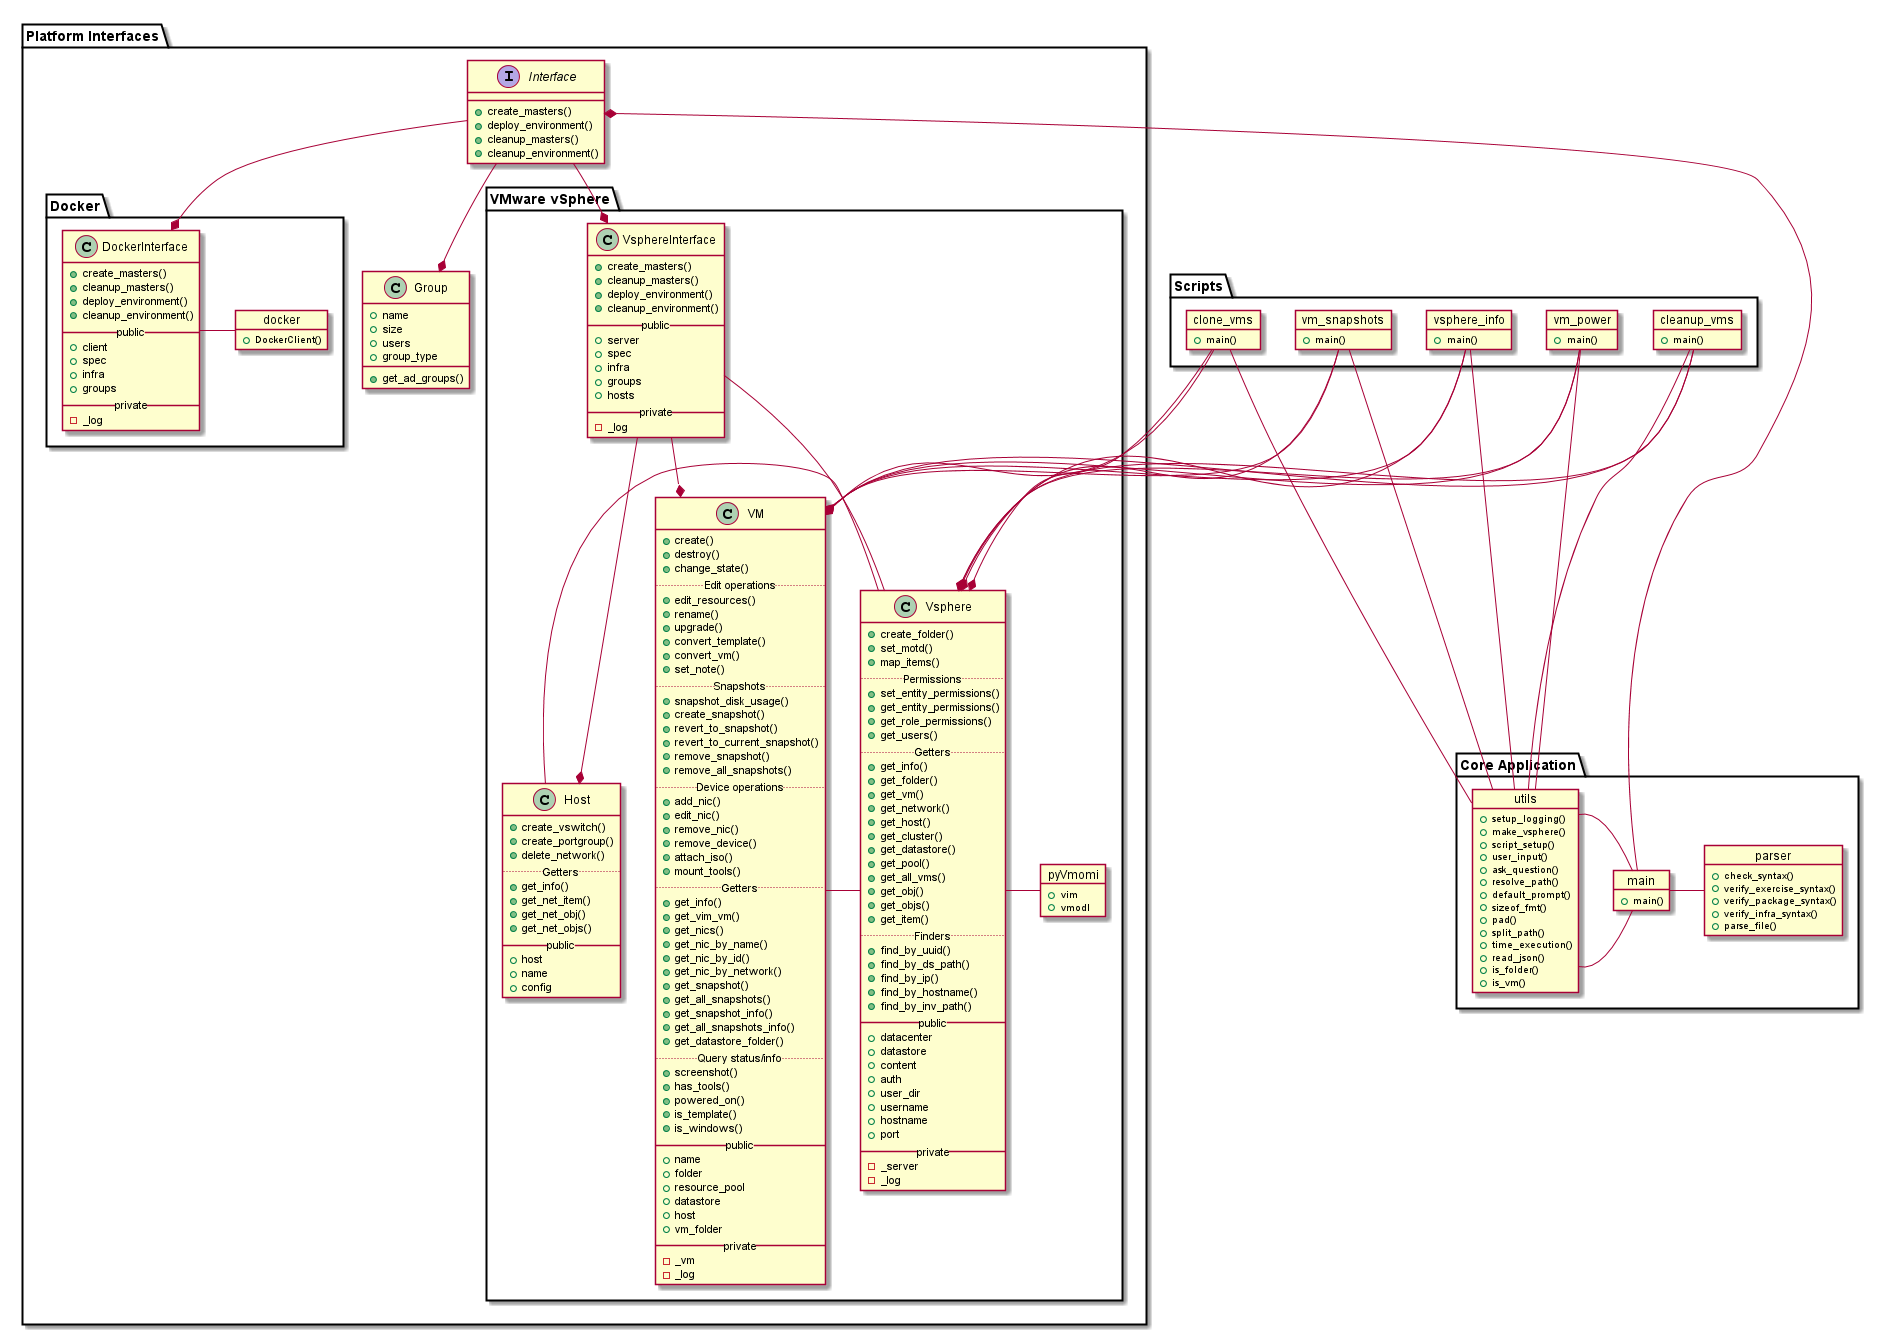
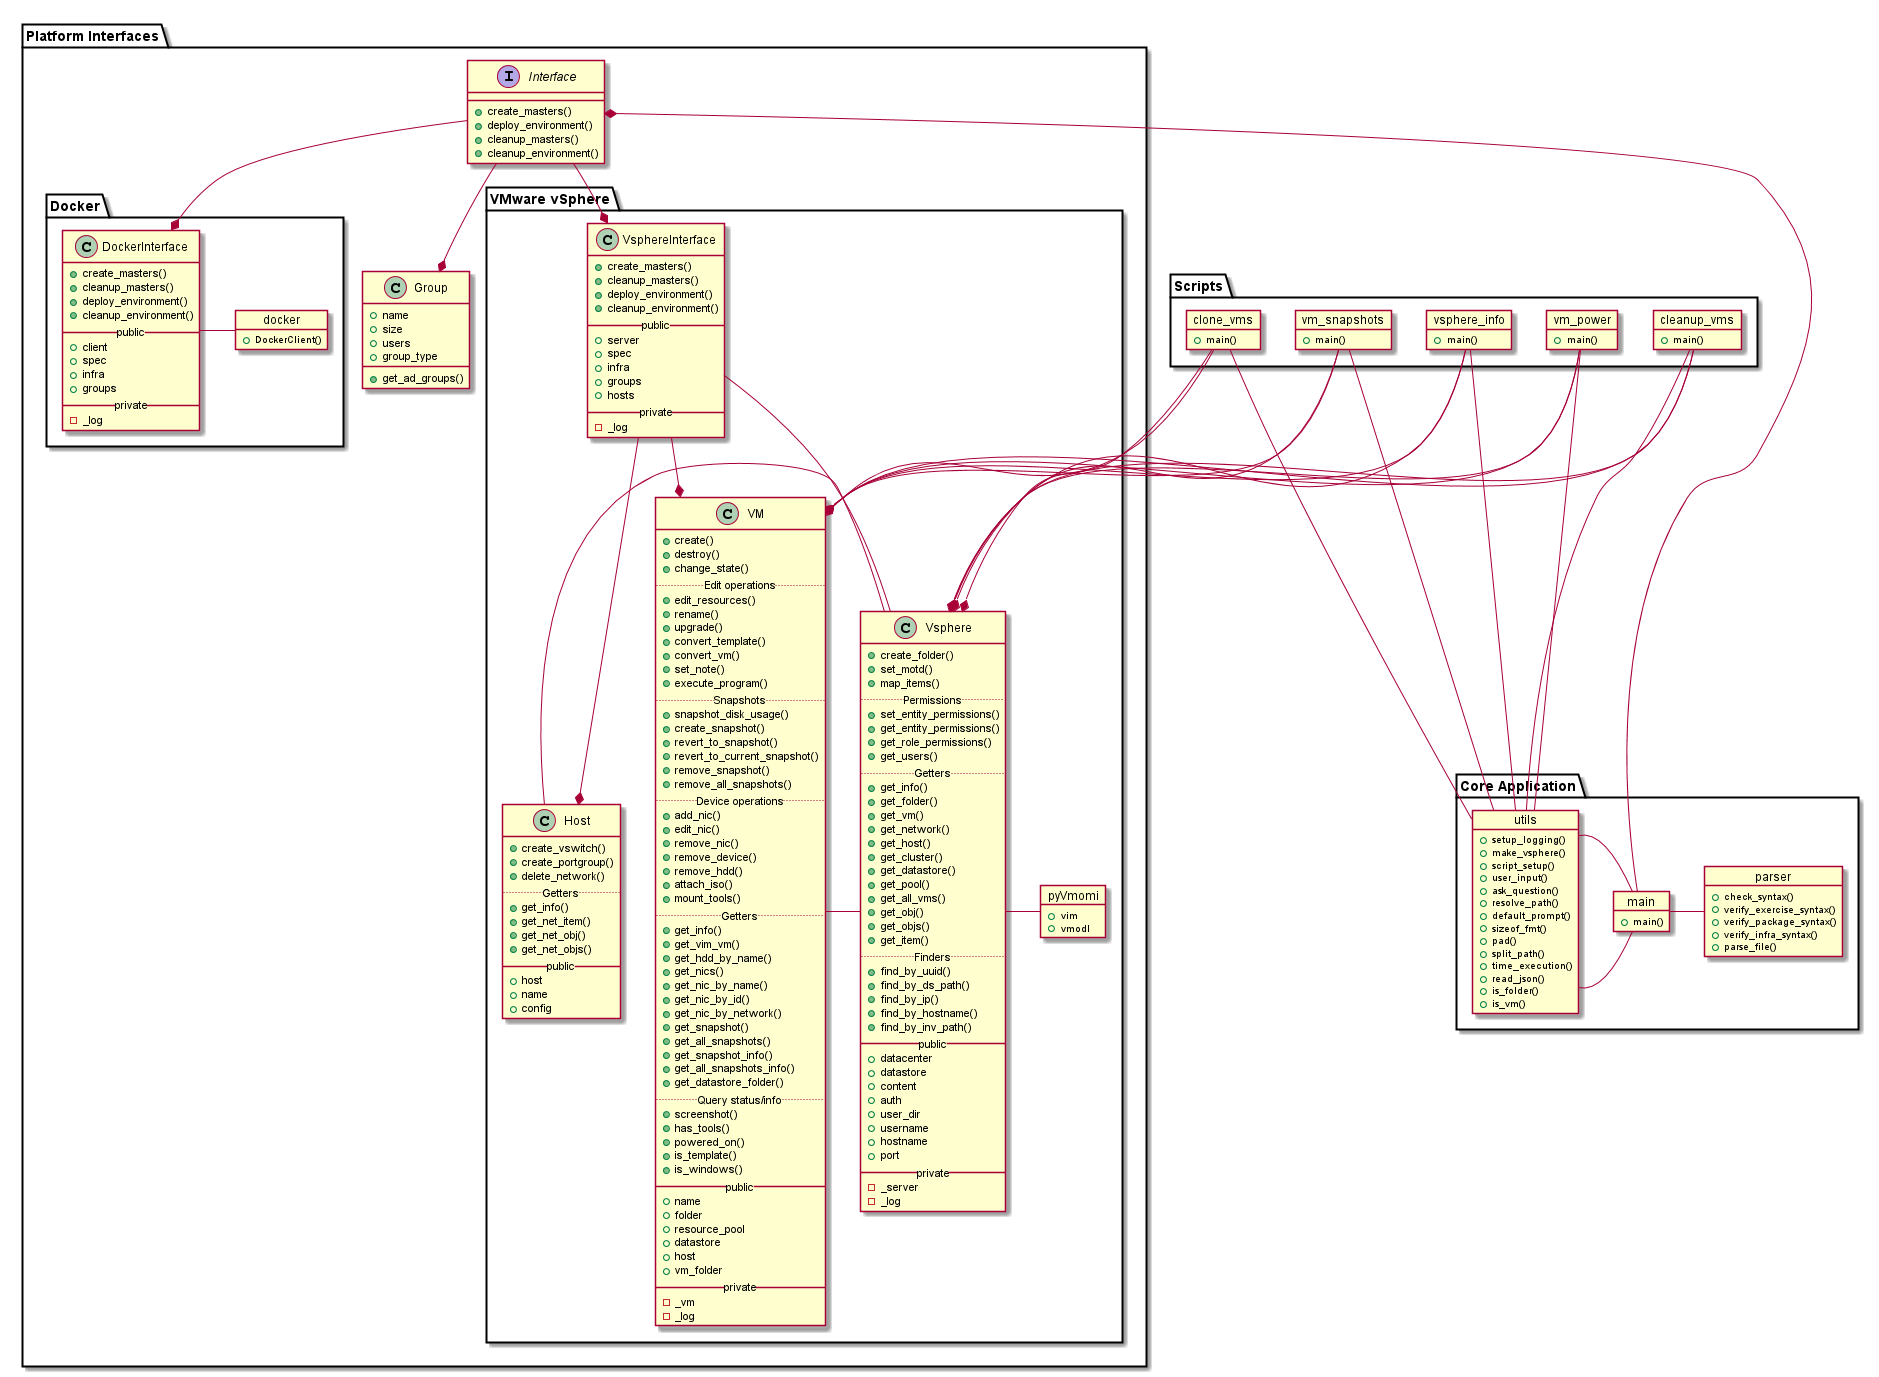
Added ability to execute programs in a VM (UNTESTED)

diff --git a/adles/vsphere/vm.py b/adles/vsphere/vm.py
@@ -229,6 +229,50 @@ class VM:
         """
         self._edit(vim.vm.ConfigSpec(annotation=str(note)))
 
+    # From: execute_program_in_vm.py in pyvmomi_community_samples
+    def execute_program(self, process_manager, program_path,
+                        username=None, password=None, program_args=""):
+        """
+        Executes a commandline program in the VM. 
+        This requires VMware Tools to be installed on the VM.
+        :param process_manager: vSphere process manager object
+        :type process_manager: vim.vm.guest.ProcessManager
+        :param str program_path: Path to the program inside the VM
+        :param str username: User on VM to execute program using [default: current ADLES user]
+        :param str password: Plaintext password for the User [default: prompt user]
+        :param str program_args: Commandline arguments for the program [default: ""]
+        :return: Program Process ID (PID) if it was executed successfully, -1 if not
+        :rtype: int
+        """
+        # TODO: do listprocesses and terminate process in guest, make helper func for guest authentication
+        # https://github.com/vmware/pyvmomi/blob/575ab56eb56f32f53c98f40b9b496c6219c161da/docs/vim/vm/guest/ProcessManager.rst
+        from os.path import basename
+        prog_name = basename(program_path)
+        if not self.has_tools():
+            self._log.error("Cannot execute program %s in VM %s: VMware Tools is not running",
+                            prog_name, self.name)
+            return -1
+        if username is None:
+            from getpass import getuser
+            username = getuser()
+        if password is None:
+            from getpass import getpass
+            password = getpass("Enter password of user %s to execute program %s on VM %s"
+                               % (username, prog_name, self.name))
+        creds = vim.vm.guest.NamePasswordAuthentication(username=username, password=password)
+        try:
+            ps = vim.vm.guest.ProcessManager.ProgramSpec(programPath=program_path,
+                                                         arguments=program_args)
+            pid = process_manager.StartProgramInGuest(self._vm, creds, ps)
+            self._log.debug("Successfully started program %s in VM %s, PID is %s",
+                            prog_name, self.name, pid)
+            return pid
+        except IOError as e:
+            self._log.error("Could not execute program %s in VM %s: %s",
+                            prog_name, self.name, str(e))
+        finally:
+            return -1
+
     def snapshot_disk_usage(self):
         """
         Determines the total disk usage of a VM's snapshots
